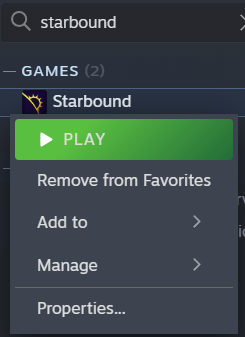
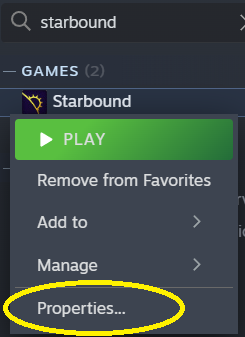
added circles to images

Changed region(s): [[0.0, 0.8309, 0.7714, 1.0]]

diff --git a/README.md b/README.md
@@ -28,6 +28,7 @@ Remember the folder you created in the mods folder? Go there and create subfolde
 
 # Uploading to Steam
 
-Note: please almost never do this if you've changed actual game files instead of patching them. You will break other people's mods. 
+Note: please almost never do this if you've changed actual game files instead of patching them. You will break other people's mods that rely on the game files you've changed. The only time you should do this is when patching isn't an option (for instance, you have to change specific .lua files).
 
 If you want to upload your mod to steam, create an image for your mod and put it in your project folder. Go to Starbound on Steam, then click 'Play' and select the mod uploader tool. If you don't have options when you hit play, go to properties, and under 'General', change your launch options to 'Ask when starting game'. 
+
